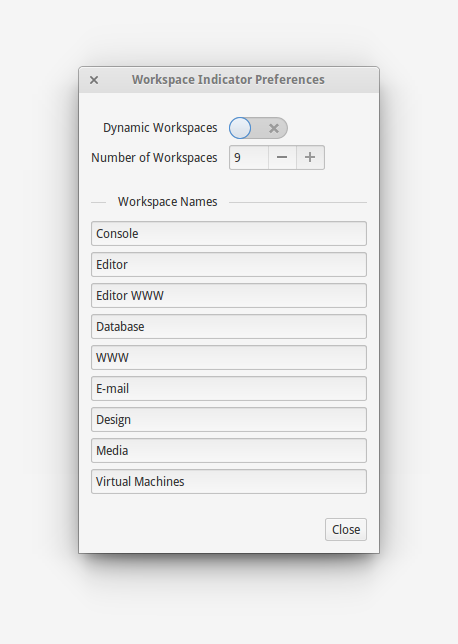
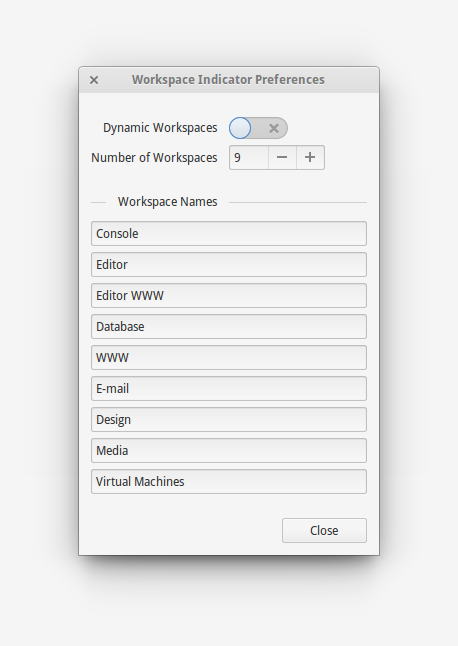
Updated for v0.2.

diff --git a/index.html b/index.html
@@ -18,7 +18,7 @@
           <span id="heading">
             <img src="assets/images/indicator-workspaces.svg">
             <h1>Indicator<br />Workspaces</h1>
-            <a class="button" href="https://github.com/dyson/indicator-workspaces/releases/download/v0.1/indicator-workspaces_0.1_all.deb"><i class="fa fa-download"></i> Download v0.1</a>
+            <a class="button" href="https://github.com/dyson/indicator-workspaces/releases/download/v0.2/indicator-workspaces_0.2_all.deb"><i class="fa fa-download"></i> Download v0.2</a>
           </span>
           <img id="screenshot" src="assets/images/indicator-workspaces-screenshot.png">
         </div>
@@ -38,7 +38,7 @@
     <div class="grid grid-pad">
       <div class="col-1-2">
         <h2>Installing</h2>
-        <p>Indicator Workspaces is distributed as a Debain package file (.deb). The latest stable release can always be <a href="https://github.com/dyson/indicator-workspaces/releases/download/v0.1/indicator-workspaces_0.1_all.deb">downloaded</a> from this page.</p>
+        <p>Indicator Workspaces is distributed as a Debain package file (.deb). The latest stable release can always be <a href="https://github.com/dyson/indicator-workspaces/releases/download/v0.2/indicator-workspaces_0.2_all.deb">downloaded</a> from this page.</p>
         <p>To install either open the downloaded file, or navigate to the file in the terminal and run:</p>
         <p><em>$ sudo debpkg -i indicator-workspaces_0.1_all.deb</em></p>
         <p>Once installed, you will need to log out and back in for the indicator to appear.</p>
@@ -46,12 +46,36 @@
 
         <h2>Upgrading</h2>
         <p>Downloading and installing the latest verion will overwrite the currently installed version. You will need to log out and back in for the new indicator to run.</p>
+
+        <h2>Removing</h2>
+        <p>To remove Indicator Workspaces open the terminal and run:</p>
+        <p><em>$ sudo apt-get remove indicator-workspaces</em></p>
+        <p>When removing Indicator Workspaces, all preferences are kept in the system. You should set the prefernces you would like to keep be removing.</p>
+        <p>The following commands when entered into the terminal will reset the preferences back to the Elementary OS defaults:</p>
+        <p><em>$ gsettings set org.pantheon.desktop.gala.behavior dynamic-workspaces true</em></p>
+        <p><em>$ gsettings set org.gnome.desktop.wm.preferences num-workspaces 4</em></p>
+        <p><em>$ gsettings set org.gnome.desktop.wm.preferences workspace-names "[]"</em></p>
       </div>
       <div class="col-1-2">
         <h2>Using &amp; Configuring</h2>
-        <p>Indicator Workspaces works with both dynamic workspaces and well as a fixed number of workspaces.</p>
-        <p>Workspaces from 1 - 9 can be named manually through the preferences. If a workspace doesn't have a name, it is given one in the form of 'Workspace (Number)'. Changes to the workspaces are applied immediately.</p>
+        <p>Indicator Workspaces works with both dynamic workspaces and well as a fixed number of workspaces. A maximum of 36 workspaces is supported.</p>
+        <p>Workspaces from 1 - 9 can be named manually through the preferences. If a workspace doesn't have a name, it is given one in the form of 'Workspace (Number)'.</p>
+        <p>If you wish to name more than 9 workspaces, you can do this from the terminal. The following will name 12 workspaces by their number:</p>
+        <p><em>$ gsettings set org.gnome.desktop.wm.preferences workspace-names "['1','2','3','4','5','6','7','8','9','10','11','12']"</em></p>
+        <p>Changes to the workspaces are applied immediately.</p>
         <p class="center"><img src="assets/images/indicator-workspaces-screenshot-preferences.png"></p>
+      </div>
+      <div class="col-1-2">
+        <h2>Changelog</h2>
+          <h3>v0.2</h3>
+          <p>* Added support for 36 workspaces<br>
+          * Added infinite status icon for workspaces > 9<br>
+          * Fixed naming of workspaces when no names are in dconf<br>
+          * Fixed sizing of close button in prefernces</p>
+          <p><em>Thu, 11 Sep 2014 09:14:10 +1000</em></p>
+          <h3>v0.1</h3>
+          <p>* Initial release</p>
+         <p><em>Mon, 01 Sep 2014 10:44:40 +1000</em></p>
       </div>
     </div>
   </div>

diff --git a/assets/stylesheets/application.css b/assets/stylesheets/application.css
@@ -82,6 +82,10 @@ body {
 .content h2 i {
   font-size: 30pt;
 }
+.content h3 {
+  font-weight: 300;
+  line-height: 150%;
+}
 .content {
   font-size: 12pt;
   line-height: 20pt;
@@ -133,6 +137,9 @@ hr {
   }
   h2 {
     font-size: 14pt;
+  }
+  h3 {
+    font-size: 13pt;
   }
 
   img {
